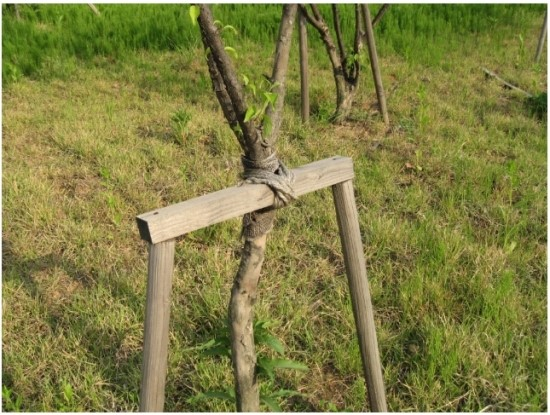
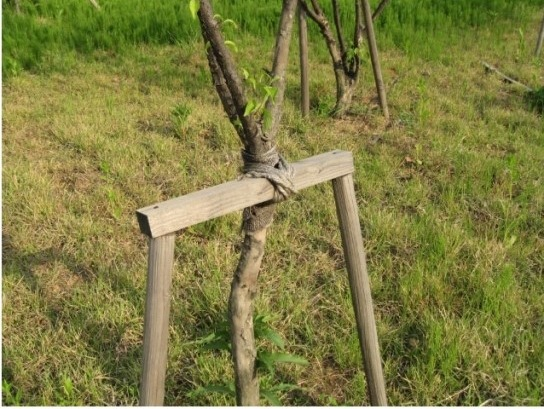
Add carousel nav buttons + dot indicators, crop twoleg image border
Mobile facility carousel now has prev/next arrow buttons over the
photo and 9 dot indicators below it (both hidden on desktop/tablet
where the grid layout is used instead), wired to the same index/
autoplay-pause logic as swipe. Also crop out a ~6px white border
baked into the top and right edges of twoleg-support-1.jpg's source
file, found via canvas pixel sampling the same way as the earlier
tripod photo fix.

diff --git a/src/style/facility.css b/src/style/facility.css
@@ -55,6 +55,64 @@
   background: linear-gradient(180deg, transparent, rgba(0, 0, 0, 0.65));
 }
 
+.facility__carousel {
+  position: relative;
+}
+
+.facility__nav {
+  position: absolute;
+  top: 50%;
+  transform: translateY(-50%);
+  z-index: 2;
+  display: flex;
+  align-items: center;
+  justify-content: center;
+  width: 38px;
+  height: 38px;
+  border-radius: 999px;
+  border: 1px solid rgba(244, 242, 238, 0.3);
+  background: rgba(30, 28, 26, 0.55);
+  backdrop-filter: blur(4px);
+  color: var(--color-dark-ink);
+  cursor: pointer;
+}
+
+.facility__nav svg {
+  width: 18px;
+  height: 18px;
+}
+
+.facility__nav--prev {
+  left: 8px;
+}
+
+.facility__nav--next {
+  right: 8px;
+}
+
+.facility__dots {
+  display: flex;
+  justify-content: center;
+  gap: 8px;
+  margin-top: 18px;
+}
+
+.facility__dot {
+  width: 7px;
+  height: 7px;
+  padding: 0;
+  border: none;
+  border-radius: 999px;
+  background: var(--color-dark-line);
+  cursor: pointer;
+  transition: background 0.2s ease, transform 0.2s ease;
+}
+
+.facility__dot.is-active {
+  background: var(--color-accent);
+  transform: scale(1.3);
+}
+
 @media (min-width: 600px) {
   .facility__grid {
     display: grid;
@@ -68,6 +126,11 @@
   .facility__item {
     flex: unset;
     scroll-snap-align: unset;
+  }
+
+  .facility__nav,
+  .facility__dots {
+    display: none;
   }
 }
 

diff --git a/src/interactions.js b/src/interactions.js
@@ -75,6 +75,10 @@ export function setupFacilityCarousel() {
   const track = document.querySelector(".facility__grid");
   if (!track) return;
 
+  const prevBtn = document.querySelector("[data-facility-prev]");
+  const nextBtn = document.querySelector("[data-facility-next]");
+  const dots = Array.from(document.querySelectorAll("[data-facility-dot]"));
+
   const mq = window.matchMedia("(max-width: 599px)");
   const AUTOPLAY_MS = 3200;
   const RESUME_DELAY_MS = 4000;
@@ -84,6 +88,10 @@ export function setupFacilityCarousel() {
   let autoplayTimer = null;
   let resumeTimer = null;
 
+  const updateDots = () => {
+    dots.forEach((dot, i) => dot.classList.toggle("is-active", i === index));
+  };
+
   const goTo = (i) => {
     if (!slides.length) return;
     index = ((i % slides.length) + slides.length) % slides.length;
@@ -92,6 +100,7 @@ export function setupFacilityCarousel() {
       inline: "center",
       block: "nearest",
     });
+    updateDots();
   };
 
   const stopAutoplay = () => {
@@ -118,6 +127,7 @@ export function setupFacilityCarousel() {
       }
     });
     index = closest;
+    updateDots();
   };
 
   const pauseThenResume = () => {
@@ -131,6 +141,23 @@ export function setupFacilityCarousel() {
   track.addEventListener("scroll", syncIndexFromScroll, { passive: true });
   track.addEventListener("pointerdown", pauseThenResume);
 
+  prevBtn?.addEventListener("click", () => {
+    goTo(index - 1);
+    pauseThenResume();
+  });
+
+  nextBtn?.addEventListener("click", () => {
+    goTo(index + 1);
+    pauseThenResume();
+  });
+
+  dots.forEach((dot, i) => {
+    dot.addEventListener("click", () => {
+      goTo(i);
+      pauseThenResume();
+    });
+  });
+
   const applyMode = () => {
     if (mq.matches) {
       startAutoplay();
@@ -142,6 +169,7 @@ export function setupFacilityCarousel() {
 
   mq.addEventListener("change", applyMode);
   applyMode();
+  updateDots();
 }
 
 export function setupReveal() {

diff --git a/src/sections/facility.js b/src/sections/facility.js
@@ -1,4 +1,5 @@
 import { content } from "../content.js";
+import { icons } from "../icons.js";
 import photos from "../photos.js";
 
 export function renderFacility() {
@@ -15,6 +16,13 @@ export function renderFacility() {
     )
     .join("");
 
+  const dots = facility.gallery
+    .map(
+      (item, i) =>
+        `<button type="button" class="facility__dot" data-facility-dot="${i}" aria-label="${i + 1}번째 사진으로 이동"></button>`
+    )
+    .join("");
+
   return `
     <section class="facility section--dark" id="facility">
       <div class="container">
@@ -23,7 +31,14 @@ export function renderFacility() {
           <h2 class="section-title">${facility.title}</h2>
           <p class="section-desc">${facility.desc}</p>
         </div>
-        <div class="facility__grid">${gallery}</div>
+
+        <div class="facility__carousel">
+          <div class="facility__grid">${gallery}</div>
+          <button type="button" class="facility__nav facility__nav--prev" data-facility-prev aria-label="이전 사진">${icons.chevronLeft}</button>
+          <button type="button" class="facility__nav facility__nav--next" data-facility-next aria-label="다음 사진">${icons.chevronRight}</button>
+        </div>
+
+        <div class="facility__dots" data-facility-dots>${dots}</div>
       </div>
     </section>
   `;

diff --git a/src/icons.js b/src/icons.js
@@ -24,6 +24,8 @@ export const icons = {
   menu: wrap('<path d="M4 7h16"/><path d="M4 12h16"/><path d="M4 17h16"/>'),
   close: wrap('<path d="m6 6 12 12"/><path d="m18 6-12 12"/>'),
   chevronDown: wrap('<path d="m6 9 6 6 6-6"/>'),
+  chevronLeft: wrap('<path d="m15 6-6 6 6 6"/>'),
+  chevronRight: wrap('<path d="m9 6 6 6-6 6"/>'),
   quote: wrap(
     '<path d="M7 8c-1.7 0-3 1.3-3 3v5h5v-5H6c0-1.1.9-2 2-2V8Z"/><path d="M16 8c-1.7 0-3 1.3-3 3v5h5v-5h-3c0-1.1.9-2 2-2V8Z"/>'
   ),